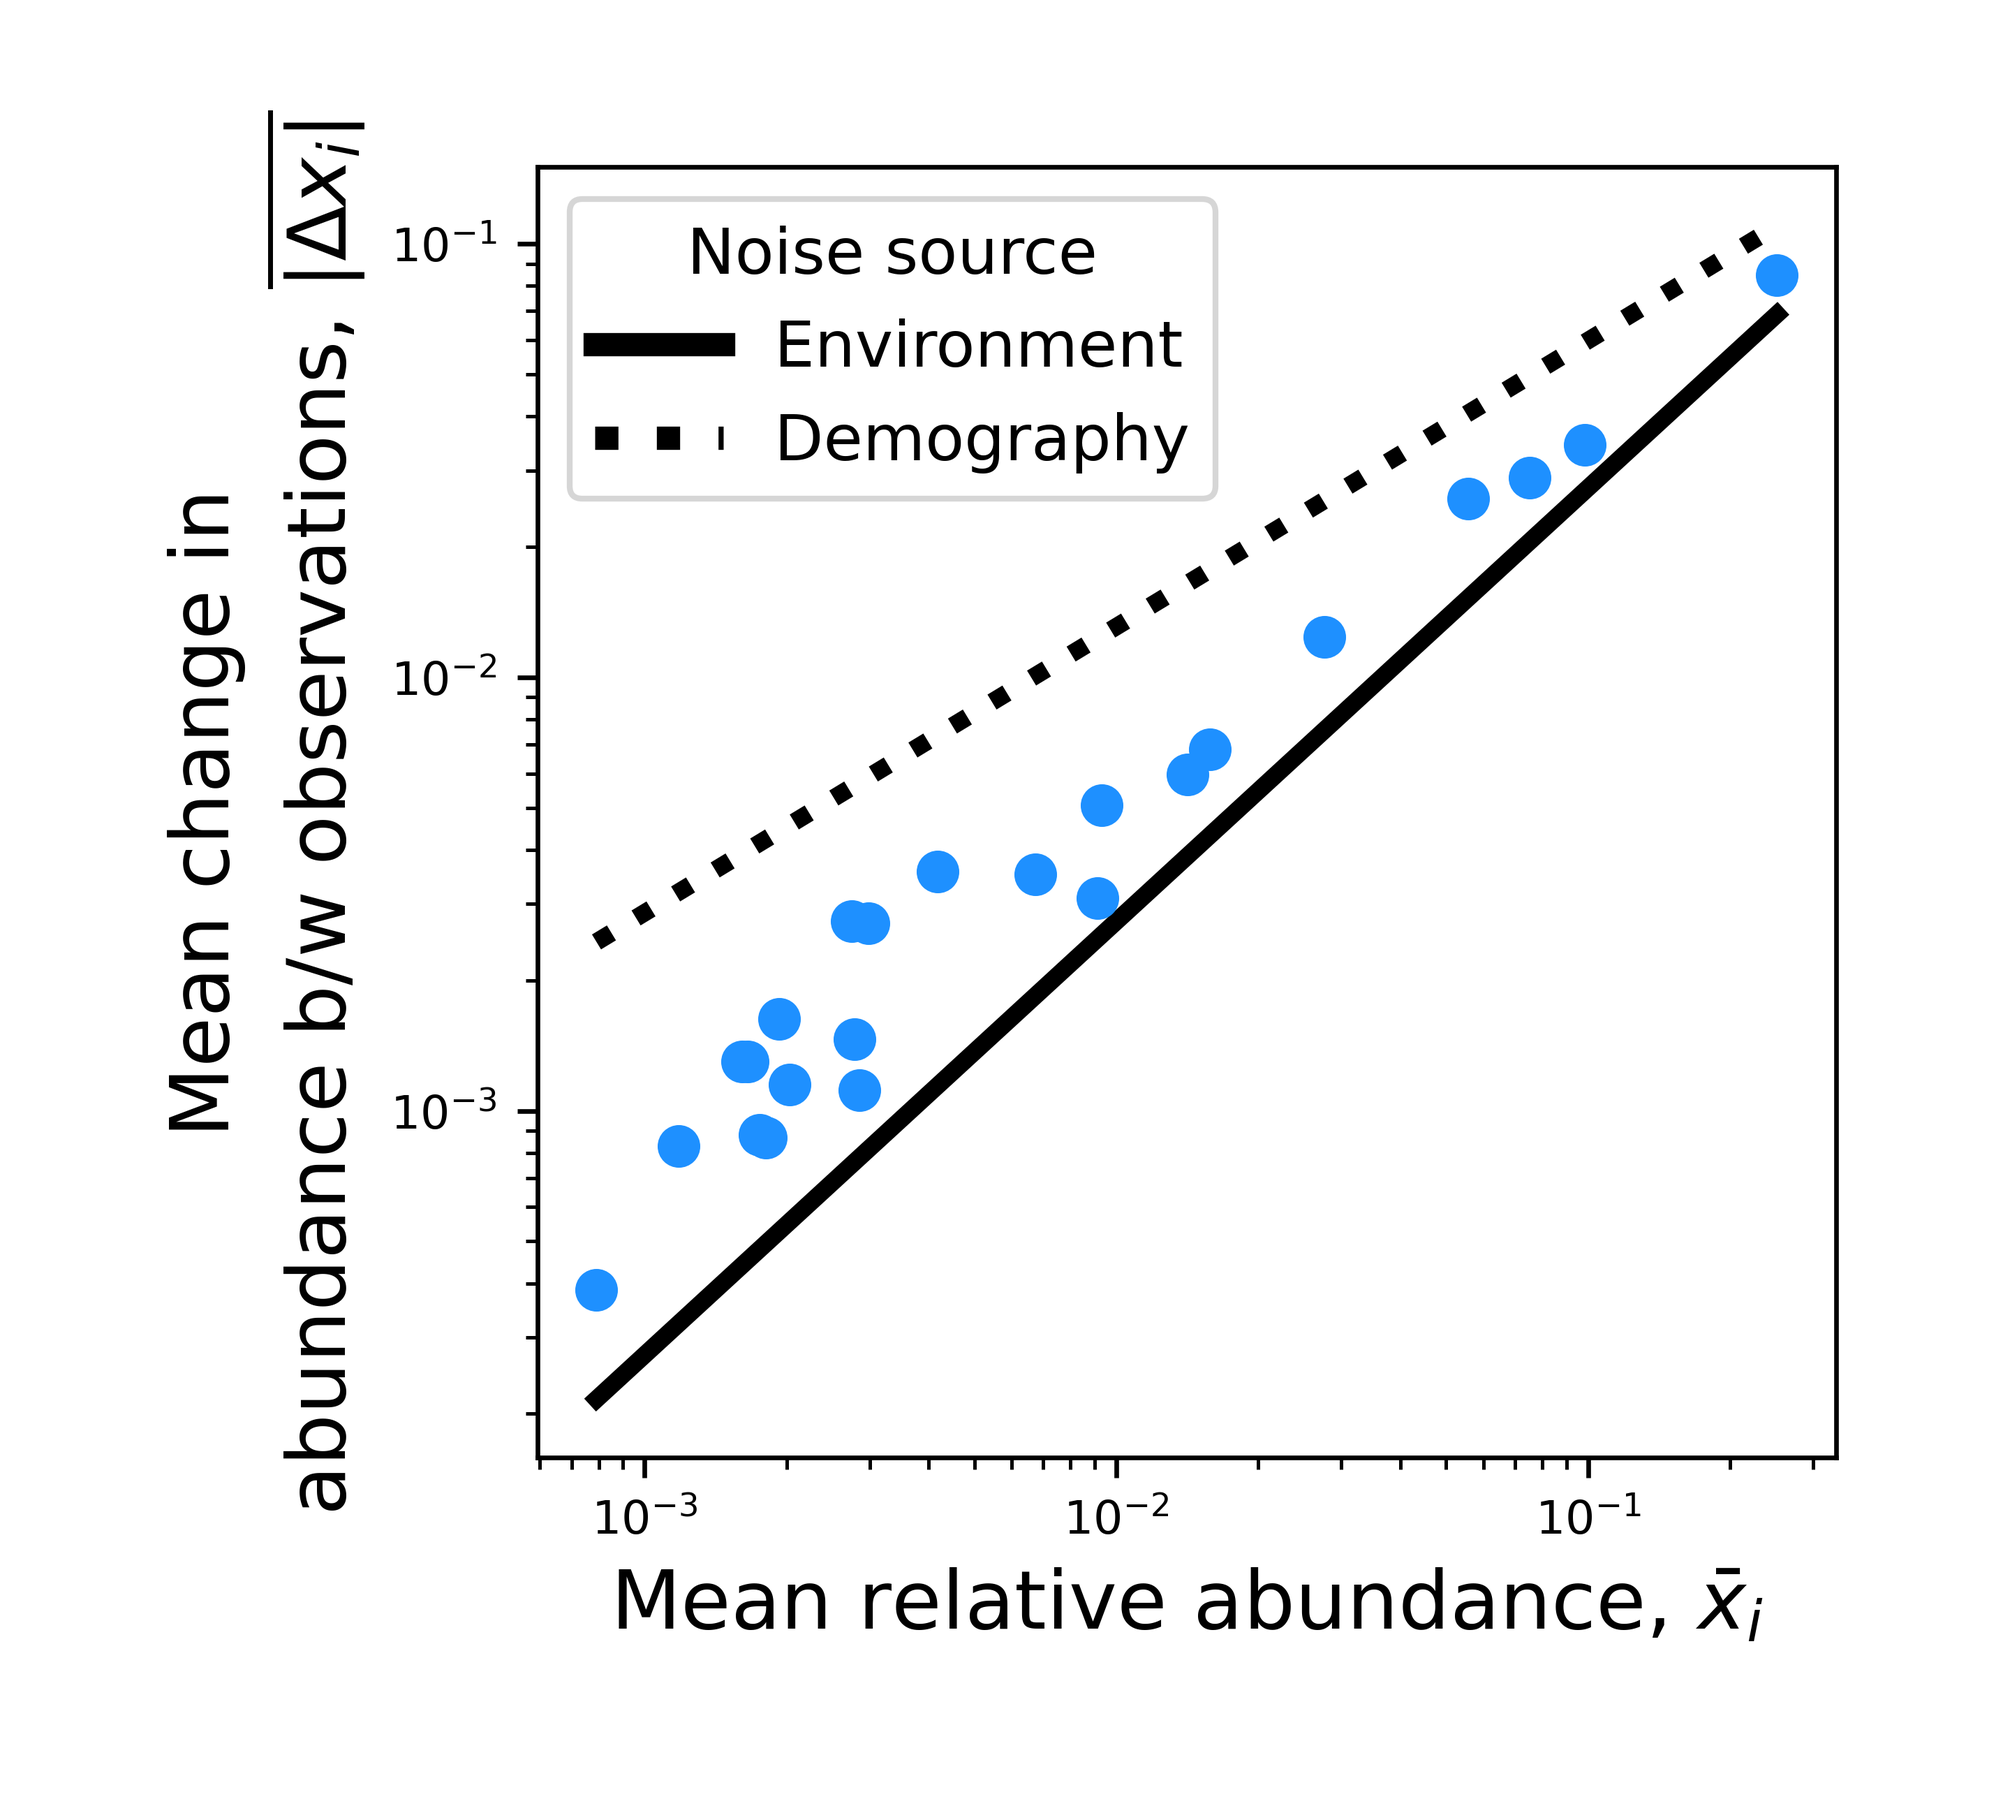
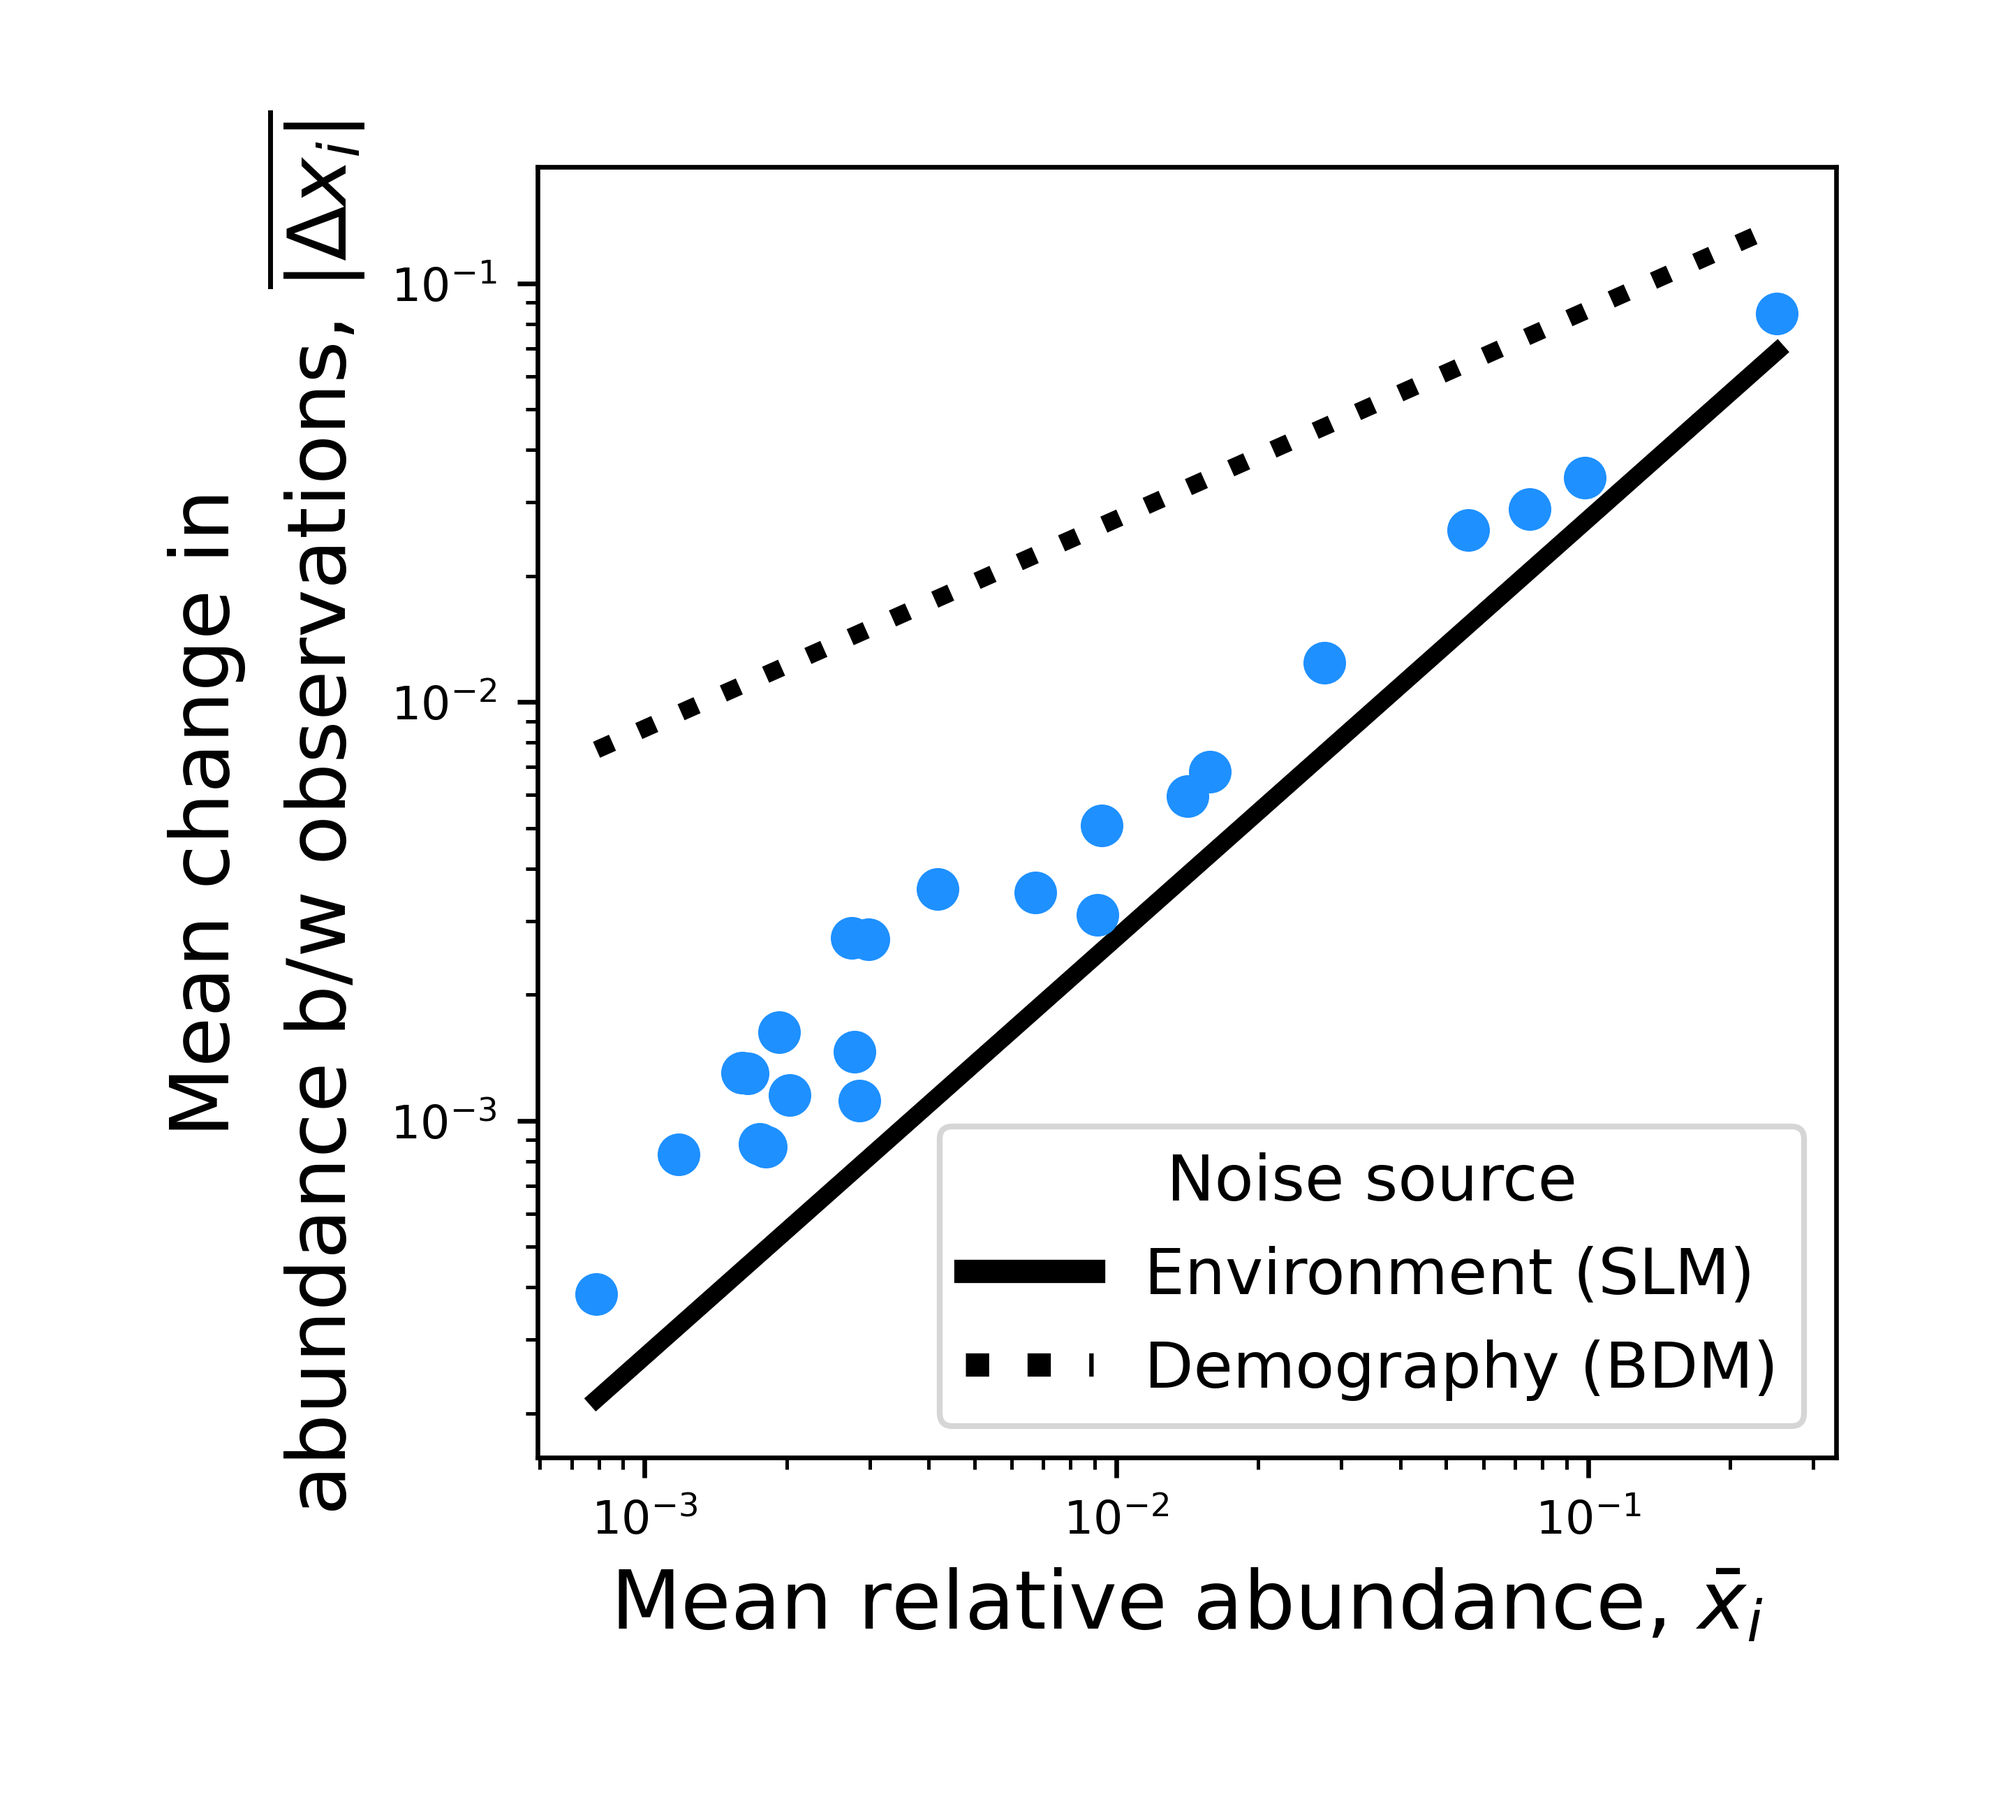
cleanup for revision

diff --git a/scripts/plot_temporal.py b/scripts/plot_temporal.py
@@ -85,11 +85,16 @@ def plot_sojourn_time():
     mixture_smf = numpy.cumsum(mixture_pdf[::-1])[::-1]
     ax.plot(sojourn_range, mixture_smf, lw=lw, c=c_blue, ls='-')
 
-    legend_elements = [Line2D([0], [0], color=c_blue, lw=4, ls='-', label='Sojourn time, ' + r'$T_{\mathrm{sojourn}}$'),
-                       Line2D([0], [0], color=c_orange, lw=4, ls='-', label='Residence time, ' + r'$T_{\mathrm{residence}}$'),
-                       Line2D([0], [0], color=c_orange, lw=4, ls=':', label='Return time, ' + r'$T_{\mathrm{return}}$')]
+    #legend_elements = [Line2D([0], [0], color=c_blue, lw=4, ls='-', label='Sojourn time, ' + r'$T_{\mathrm{sojourn}}$'),
+    #                   Line2D([0], [0], color=c_orange, lw=4, ls='-', label='Residence time, ' + r'$T_{\mathrm{residence}}$'),
+    #                   Line2D([0], [0], color=c_orange, lw=4, ls=':', label='Return time, ' + r'$T_{\mathrm{return}}$')]
 
-    ax.legend(handles=legend_elements, loc='lower left', fontsize=13)
+    legend_elements = [Line2D([0], [0], color=c_blue, lw=4, ls='-', label=r'$T_{\mathrm{sojourn}}$'),
+                       Line2D([0], [0], color=c_orange, lw=4, ls='-', label=r'$T_{\mathrm{residence}}$'),
+                       Line2D([0], [0], color=c_orange, lw=4, ls=':', label=r'$T_{\mathrm{return}}$')]
+
+
+    ax.legend(handles=legend_elements, loc='lower left', fontsize=16)
 
     ax.xaxis.set_tick_params(labelsize=tick_labelsize)
     ax.yaxis.set_tick_params(labelsize=tick_labelsize)
@@ -128,7 +133,7 @@ def plot_mean_vs_delta():
 
     slope, intercept, r_value, p_value, std_err = stats.linregress(numpy.log10(x_mean_all), numpy.log10(mean_abs_delta_all))
     slope_env=1
-    slope_demog=0.66
+    slope_demog=0.5
 
     x_range =  numpy.linspace(min(numpy.log10(x_mean_all)), max(numpy.log10(x_mean_all)), 10000)
     y_pred_env = slope_env*x_range + intercept
@@ -151,10 +156,10 @@ def plot_mean_vs_delta():
     ax.set_ylabel("Mean change in\nabundance b/w observations, " + r'$\overline{|\Delta x_{i}|}$', fontsize=14)
 
 
-    legend_elements = [Line2D([0], [0], color='k', lw=4, ls='-', label='Environment'),
-                       Line2D([0], [0], color='k', lw=4, ls=':', label='Demography')]
+    legend_elements = [Line2D([0], [0], color='k', lw=4, ls='-', label='Environment (SLM)'),
+                       Line2D([0], [0], color='k', lw=4, ls=':', label='Demography (BDM)')]
 
-    ax.legend(handles=legend_elements, loc='upper left', fontsize=11, title = "Noise source", title_fontsize=11)
+    ax.legend(handles=legend_elements, loc='lower right', fontsize=11, title = "Noise source", title_fontsize=11)
 
     fig.subplots_adjust(hspace=0.25, wspace=0.15)
     fig_name = "%sfig2_mean_vs_delta.png" % config.analysis_directory
@@ -396,8 +401,11 @@ def plot_psd():
         #psd = signal.lombscargle(days, rel_abundance - x_mean, omega)
         #psd = numpy.sqrt(4*(psd/len(days)))
 
+        y = numpy.log10(rel_abundance/x_mean)
+
         # 128
-        f, psd = signal.welch(rel_abundance - x_mean, fs=1, nperseg=80, scaling='density')
+        #f, psd = signal.welch(rel_abundance - x_mean, fs=1, nperseg=80, scaling='density')
+        f, psd = signal.welch(y, fs=1, nperseg=80, scaling='density')
         to_keep_idx = f>0
         f = f[to_keep_idx]
         psd = psd[to_keep_idx]
@@ -414,7 +422,6 @@ def plot_psd():
 
         ax.axhline(y=10**intercept, ls=':', lw=lw, c='k', zorder=2, label='White')
         ax.plot(10**x_range, 10**(-1*x_range + intercept), ls='--', lw=lw, c='k', zorder=2, label='Pink')
-
         ax.plot(10**x_range, 10**(-2*x_range + intercept), ls='-', lw=lw, c='k', zorder=2, label='Brownian')
 
     
@@ -435,6 +442,7 @@ def plot_psd():
     fig_name = "%sfig2_psd.png" % config.analysis_directory
     fig.savefig(fig_name, format='png', bbox_inches = "tight", pad_inches = 0.4, dpi = 600)
     plt.close()
+
 
 
 def plot_crosscorr_old():
@@ -706,6 +714,8 @@ if __name__ == "__main__":
 
     #plot_sojourn_time()
 
+    plot_psd()
+
     #plot_mean_vs_logfold()
 
     #plot_diss()
@@ -723,7 +733,9 @@ if __name__ == "__main__":
     #plot_mean_vs_delta()
     #plot_mean_vs_logfold()
 
-    plot_mean_vs_logfold_slopes()
+    #plot_mean_vs_logfold_slopes()
+
+    #plot_mean_vs_delta()
 
     #plot_mean_vs_delta()
     #plot_crosscorr()

diff --git a/scripts/plot_fig3_text.py b/scripts/plot_fig3_text.py
@@ -48,12 +48,12 @@ ax.text(0.03, 0.2, "Infection     Growth      Lysis ", fontsize=14, color='k')#,
 #ax.text(0.03, 0.1, "Slow (succinate)", fontsize=14, color='#EA573D')#, fontweight='bold')
 #ax.text(0.5, 0.1, "Fast (glucose)", fontsize=14, color='#F2B342')#, fontweight='bold')
 
-#ax.text(0.1, 0.1, "Observed, " + r'$y \propto 1.4 \cdot x$', fontsize=14, color='k')#, fontweight='bold')
+ax.text(0.1, 0.1, "Observed, " + r'$y = 1.4 \cdot x$', fontsize=14, color='k')#, fontweight='bold')
 
 #ax.text(0.1, 0.1, "Time, " + r'$t$', fontsize=14, color='k')#, fontweight='bold')
 #ax.text(0.1, 0.1, "Relative abundance, " + r'$x_{i}(t)$', fontsize=14, color='k')#, fontweight='bold')
 
-ax.set_xlabel("Relative\nabundance, " + r'$x_{i}(t)$', fontsize=14)
+#ax.set_xlabel("Relative\nabundance, " + r'$x_{i}(t)$', fontsize=14)
 
 
 fig.subplots_adjust(hspace=0.25, wspace=0.15)
